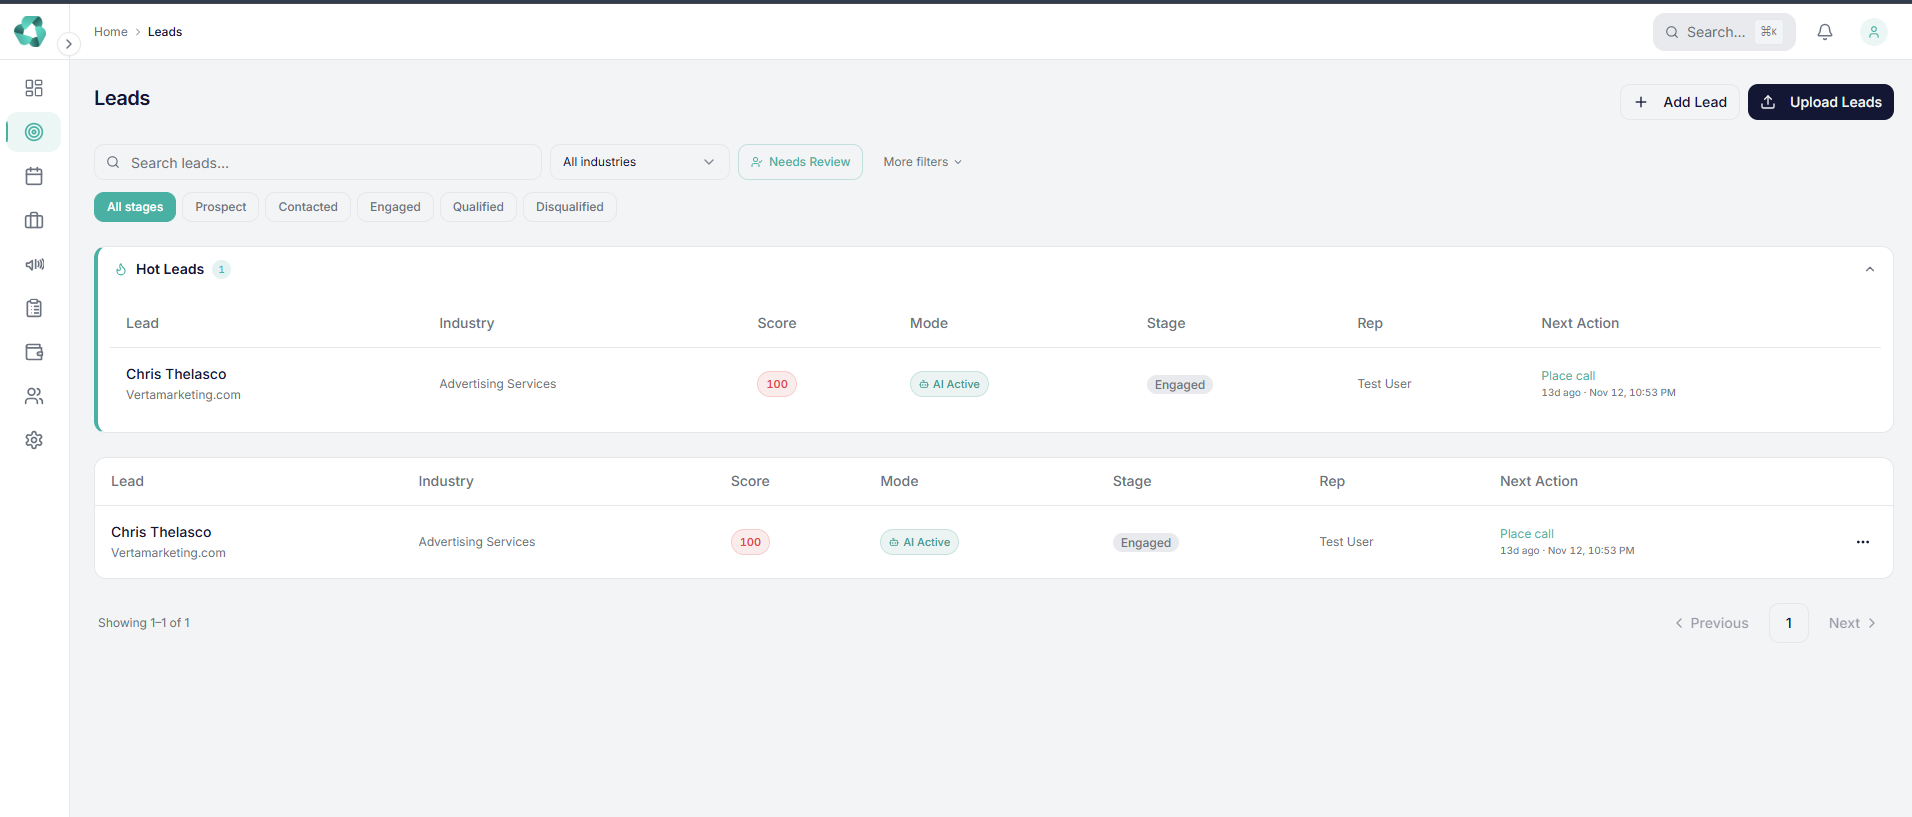
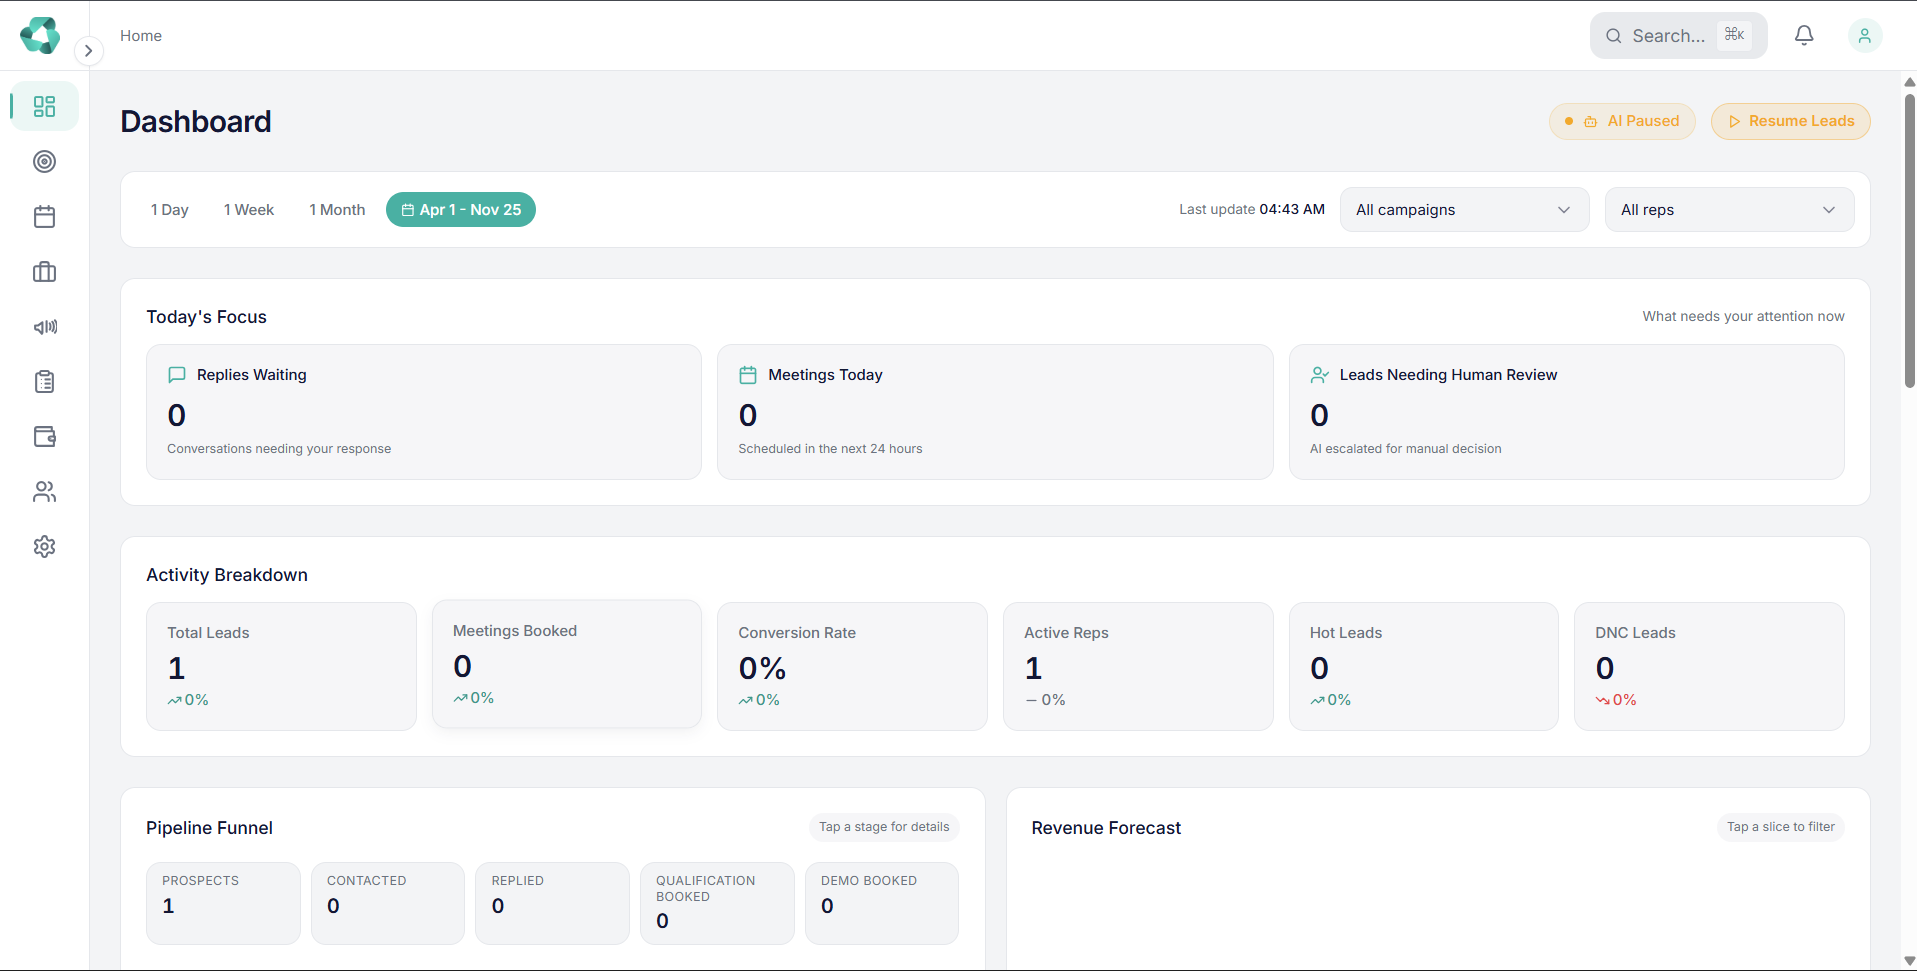
add Joryka project in the project list and also improve the image preview

diff --git a/data/projects.ts b/data/projects.ts
@@ -9,6 +9,27 @@ import type { Project, ProjectCategory } from "@/types";
 
 export const projects: Project[] = [
   {
+    slug: "joryka",
+    title: "Joryka",
+    tagline: "Multi-warehouse POS and inventory platform",
+    category: "SaaS",
+    summary:
+      "A multi-tenant point-of-sale and inventory platform with multi-warehouse stock, carton/unit handling, customers, quotations, invoices and reporting.",
+    highlights: [
+      "Point of sale with carton/unit pricing and warehouse-aware stock",
+      "Multi-warehouse inventory with negative-stock prevention",
+      "Customers, quotations, invoices and credit balances",
+      "Offline-capable sales with safe synchronization",
+    ],
+    technologies: ["React", "TypeScript", "Node.js", "PostgreSQL"],
+    serviceSlugs: ["saas-development", "backend-api-development", "custom-software-development"],
+    featured: true,
+    links: [{ href: "https://joryka.com/", label: "Visit joryka.com" }],
+    image: "/images/projects/joryka-pos.png",
+    accent: "blue",
+    status: "In development",
+  },
+  {
     slug: "codexa",
     title: "Codexa",
     tagline: "AI-native B2B lead-to-deal platform",

diff --git a/components/ui/ProjectVisual.tsx b/components/ui/ProjectVisual.tsx
@@ -15,7 +15,8 @@ const accents: Record<Project["accent"], string> = {
 export function ProjectVisual({
   project,
   className = "",
-  sizes = "(min-width: 1024px) 33vw, 100vw",
+  // Generous defaults so high-DPI screens get a sharp srcset candidate rather than an upscaled small one.
+  sizes = "(min-width: 1024px) 66vw, 100vw",
 }: {
   project: Pick<Project, "title" | "image" | "accent">;
   className?: string;
@@ -23,8 +24,15 @@ export function ProjectVisual({
 }) {
   if (project.image) {
     return (
-      <div className={`relative overflow-hidden ${className}`}>
-        <Image src={project.image} alt={`${project.title} screenshot`} fill sizes={sizes} className="object-cover" />
+      <div className={`relative overflow-hidden bg-navy-950 ${className}`}>
+        <Image
+          src={project.image}
+          alt={`${project.title} screenshot`}
+          fill
+          sizes={sizes}
+          quality={95}
+          className="object-contain"
+        />
       </div>
     );
   }

diff --git a/components/ui/ProjectCard.tsx b/components/ui/ProjectCard.tsx
@@ -24,7 +24,7 @@ export function ProjectCard({ project, size = "md" }: { project: Project; size?:
       <div className="relative mt-auto px-3 pb-3">
         <ProjectVisual
           project={project}
-          className={`rounded-[1.25rem] ${size === "lg" ? "aspect-[16/10]" : "aspect-[4/3]"} transition-transform duration-500 group-hover:scale-[1.015]`}
+          className={`rounded-[1.25rem] aspect-[2/1] transition-transform duration-500 group-hover:scale-[1.015]`}
         />
         {preview ? (
           <a

diff --git a/next.config.ts b/next.config.ts
@@ -1,7 +1,9 @@
 import type { NextConfig } from "next";
 
 const nextConfig: NextConfig = {
-  /* config options here */
+  images: {
+    qualities: [75, 95],
+  },
   experimental: {
     agentFeedback: true,
   },
